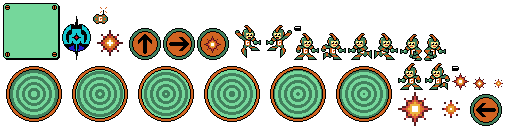
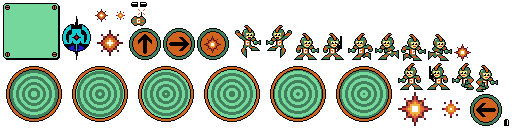
add up bullet

diff --git a/core/src/com/x555l/gigagal/entities/Bullet.java b/core/src/com/x555l/gigagal/entities/Bullet.java
@@ -11,35 +11,59 @@ import com.x555l.gigagal.util.Enum.Facing;
 
 public class Bullet {
     public Vector2 position;
-    private Facing direction;
+    private Vector2 velocity;
 
     public boolean active;
 
     private Level level;
+    private TextureRegion region;
 
     public Bullet(float x, float y, Facing direction, Level level) {
-        position = new Vector2(x, y);
-        this.direction = direction;
         this.level = level;
         active = true;
+
+        position = new Vector2(x, y);
+        velocity = new Vector2(0, 0);
+
+        if (direction == null) {
+            // up bullet
+            region = Assets.instance.bulletAssets.upBullet;
+            velocity.y = Constants.BULLET_SPEED;
+        } else if (direction == Facing.LEFT) {
+            // left bullet
+            region = Assets.instance.bulletAssets.leftBullet;
+            velocity.x = -Constants.BULLET_SPEED;
+        } else {
+            // right bullet
+            region = Assets.instance.bulletAssets.rightBullet;
+            velocity.x = Constants.BULLET_SPEED;
+        }
     }
 
     public void update(float delta) {
         // move the bullet
-        if (direction == Facing.LEFT) {
-            position.x -= delta * Constants.BULLET_SPEED;
-        } else {
-            position.x += delta * Constants.BULLET_SPEED;
-        }
+        position.mulAdd(velocity, delta);
 
         // check if bullet out of screen
-        final float halfWorldWidth = level.getViewport().getWorldWidth() / 2;
+        if (velocity.y == 0) {
+            // for left/right bullet
+            final float halfWorldWidth = level.getViewport().getWorldWidth() / 2;
+            final float cameraX = level.getViewport().getCamera().position.x;
 
-        final float cameraX = level.getViewport().getCamera().position.x;
+            if (position.x < cameraX - halfWorldWidth
+                    || position.x > cameraX + halfWorldWidth) {
+                active = false;
+                return;
+            }
+        } else {
+            // for up bullet
+            final float halfWorldHeight = level.getViewport().getWorldHeight() / 2;
+            final float cameraY = level.getViewport().getCamera().position.y;
 
-        if (position.x < cameraX - halfWorldWidth
-                || position.x > cameraX + halfWorldWidth) {
-            active = false;
+            if (position.y > cameraY + halfWorldHeight) {
+                active = false;
+                return;
+            }
         }
 
         // detect collision with non-passable platforms
@@ -62,13 +86,6 @@ public class Bullet {
     }
 
     public void render(SpriteBatch batch) {
-        TextureRegion region;
-
-        if (direction == Facing.LEFT)
-            region = Assets.instance.bulletAssets.leftBullet;
-        else
-            region = Assets.instance.bulletAssets.rightBullet;
-
         batch.draw(
                 region,
                 position.x - Constants.BULLET_CENTER.x,

diff --git a/core/src/com/x555l/gigagal/entities/GigaGal.java b/core/src/com/x555l/gigagal/entities/GigaGal.java
@@ -256,6 +256,7 @@ public class GigaGal {
                     region = Assets.instance.gigaGalAssets.walkingLeft.getKeyFrame(walkingTime);
                 } else {
                     region = Assets.instance.gigaGalAssets.standingLeft;
+                    System.out.println(region);
                 }
             } else {
                 region = Assets.instance.gigaGalAssets.jumpingLeft;
@@ -271,6 +272,7 @@ public class GigaGal {
                 region = Assets.instance.gigaGalAssets.jumpingRight;
             }
         }
+
 
         batch.draw(
                 region,
@@ -289,7 +291,7 @@ public class GigaGal {
     }
 
     private boolean betweenVerticalBorder(Platform platform) {
-        return  ( (!platform.passable)          // platform mustn't be passable
+        return ((!platform.passable)          // platform mustn't be passable
                 && position.y >= platform.y     // head must be higher than bottom border of platform
                 && position.y - Constants.GIGAGAL_EYE_POSITION.y <= platform.yTop);  // feet must be lower than top border of platform
 
@@ -405,10 +407,15 @@ public class GigaGal {
             if (facing == Facing.LEFT)
                 xOffset = -xOffset;
 
+            Facing bulletFacing = null;
+
+            if (walkState != WalkState.FACE_UP)
+                bulletFacing = facing;
+
             level.addNewBullet(
                     position.x + xOffset,
                     position.y + Constants.GIGAGAL_GUN_OFFSET.y,
-                    facing
+                    bulletFacing
             );
         }
     }

diff --git a/core/src/com/x555l/gigagal/util/Enum.java b/core/src/com/x555l/gigagal/util/Enum.java
@@ -16,6 +16,7 @@ public class Enum {
 
     public enum WalkState {
         STANDING,
+        FACE_UP,
         WALKING,
     }
 }
